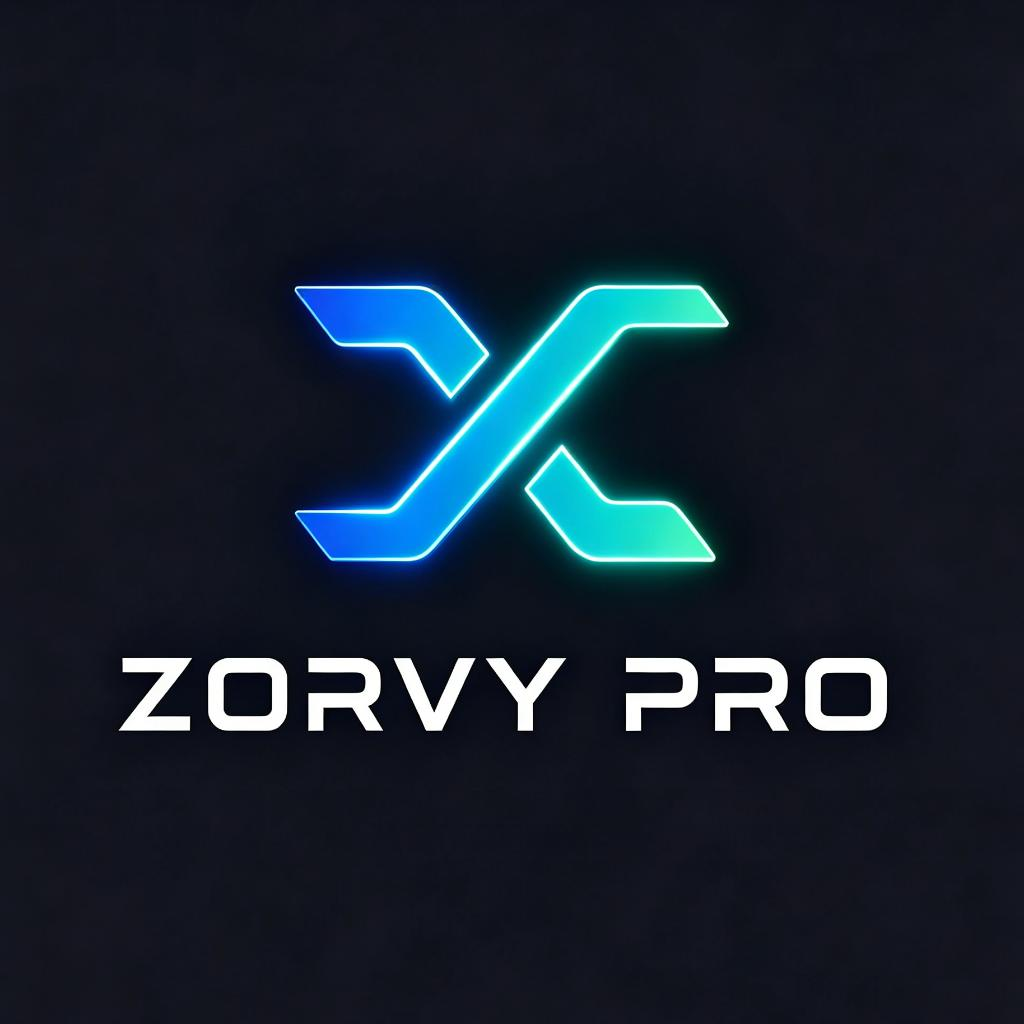
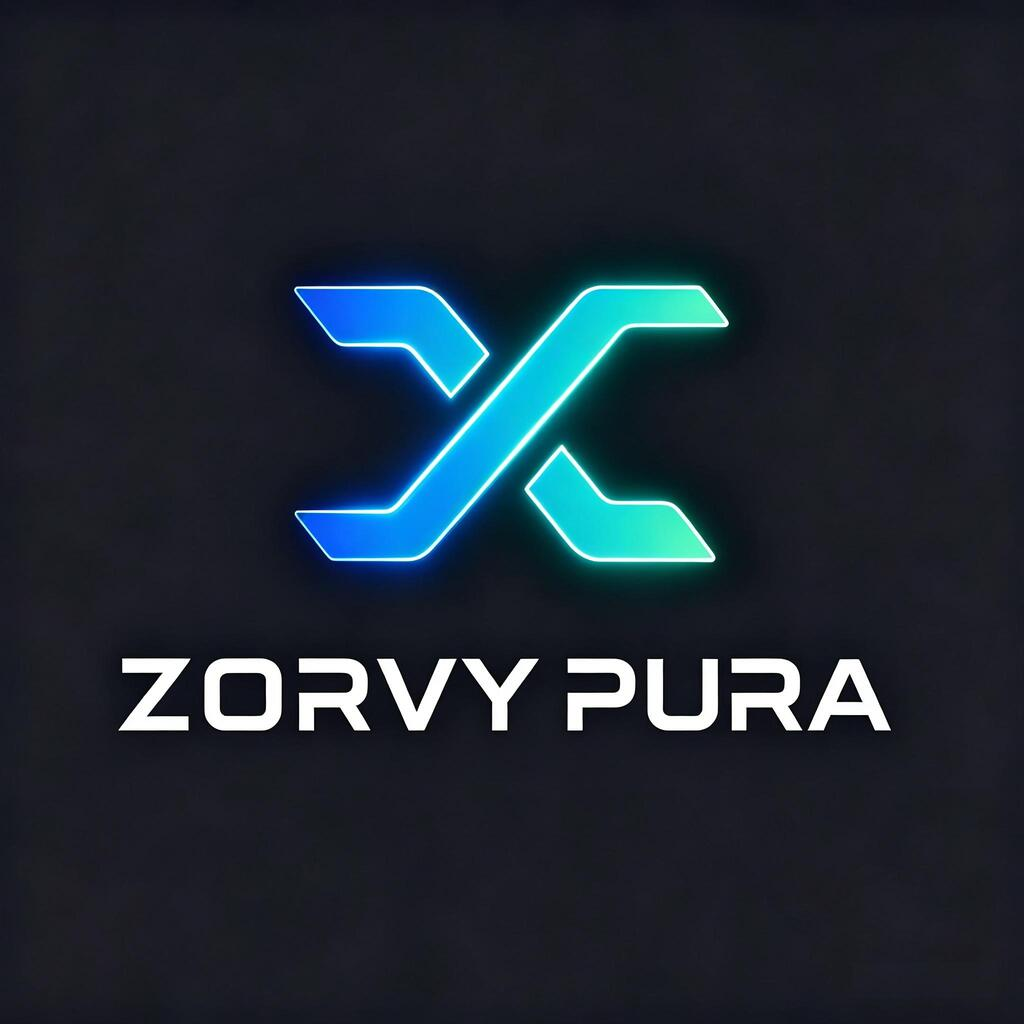
1

diff --git a/ZORVY-PRO/privacy.html b/ZORVY-PRO/privacy.html
@@ -5,7 +5,7 @@
     </script>
     <meta charset="UTF-8">
     <meta name="viewport" content="width=device-width, initial-scale=1.0">
-    <title>ZORVY PRO</title>
+    <title>ZORVY PURA</title>
     <script>
         !function(e,n){"object"==typeof exports&&"undefined"!=typeof module?module.exports=n():"function"==typeof define&&define.amd?define(n):(e=e||self).uni=n()}(this,(function(){"use strict";try{var e={};Object.defineProperty(e,"passive",{get:function(){!0}}),window.addEventListener("test-passive",null,e)}catch(e){}var n=Object.prototype.hasOwnProperty;function i(e,i){return n.call(e,i)}var t=[];function o(){return window.__dcloud_weex_postMessage||window.__dcloud_weex_}function a(){return window.__uniapp_x_postMessage||window.__uniapp_x_}var r=function(e,n){var i={options:{timestamp:+new Date},name:e,arg:n};if(a()){if("postMessage"===e){var r={data:n};return window.__uniapp_x_postMessage?window.__uniapp_x_postMessage(r):window.__uniapp_x_.postMessage(JSON.stringify(r))}var d={type:"WEB_INVOKE_APPSERVICE",args:{data:i,webviewIds:t}};window.__uniapp_x_postMessage?window.__uniapp_x_postMessageToService(d):window.__uniapp_x_.postMessageToService(JSON.stringify(d))}else if(o()){if("postMessage"===e){var s={data:[n]};return window.__dcloud_weex_postMessage?window.__dcloud_weex_postMessage(s):window.__dcloud_weex_.postMessage(JSON.stringify(s))}var w={type:"WEB_INVOKE_APPSERVICE",args:{data:i,webviewIds:t}};window.__dcloud_weex_postMessage?window.__dcloud_weex_postMessageToService(w):window.__dcloud_weex_.postMessageToService(JSON.stringify(w))}else{if(!window.plus)return window.parent.postMessage({type:"WEB_INVOKE_APPSERVICE",data:i,pageId:""},"*");if(0===t.length){var u=plus.webview.currentWebview();if(!u)throw new Error("plus.webview.currentWebview() is undefined");var g=u.parent(),v="";v=g?g.id:u.id,t.push(v)}if(plus.webview.getWebviewById("__uniapp__service"))plus.webview.postMessageToUniNView({type:"WEB_INVOKE_APPSERVICE",args:{data:i,webviewIds:t}},"__uniapp__service");else{var c=JSON.stringify(i);plus.webview.getLaunchWebview().evalJS('UniPlusBridge.subscribeHandler("'.concat("WEB_INVOKE_APPSERVICE",'",').concat(c,",").concat(JSON.stringify(t),");"))}}},d={navigateTo:function(){var e=arguments.length>0&&void 0!==arguments[0]?arguments[0]:{},n=e.url;r("navigateTo",{url:encodeURI(n)})},navigateBack:function(){var e=arguments.length>0&&void 0!==arguments[0]?arguments[0]:{},n=e.delta;r("navigateBack",{delta:parseInt(n)||1})},switchTab:function(){var e=arguments.length>0&&void 0!==arguments[0]?arguments[0]:{},n=e.url;r("switchTab",{url:encodeURI(n)})},reLaunch:function(){var e=arguments.length>0&&void 0!==arguments[0]?arguments[0]:{},n=e.url;r("reLaunch",{url:encodeURI(n)})},redirectTo:function(){var e=arguments.length>0&&void 0!==arguments[0]?arguments[0]:{},n=e.url;r("redirectTo",{url:encodeURI(n)})},getEnv:function(e){a()?e({uvue:!0}):o()?e({nvue:!0}):window.plus?e({plus:!0}):e({h5:!0})},postMessage:function(){var e=arguments.length>0&&void 0!==arguments[0]?arguments[0]:{};r("postMessage",e.data||{})}},s=/uni-app/i.test(navigator.userAgent),w=/Html5Plus/i.test(navigator.userAgent),u=/complete|loaded|interactive/;var g=window.my&&navigator.userAgent.indexOf(["t","n","e","i","l","C","y","a","p","i","l","A"].reverse().join(""))>-1;var v=window.swan&&window.swan.webView&&/swan/i.test(navigator.userAgent);var c=window.qq&&window.qq.miniProgram&&/QQ/i.test(navigator.userAgent)&&/miniProgram/i.test(navigator.userAgent);var p=window.tt&&window.tt.miniProgram&&/toutiaomicroapp/i.test(navigator.userAgent);var _=window.wx&&window.wx.miniProgram&&/micromessenger/i.test(navigator.userAgent)&&/miniProgram/i.test(navigator.userAgent);var m=window.qa&&/quickapp/i.test(navigator.userAgent);var f=window.ks&&window.ks.miniProgram&&/micromessenger/i.test(navigator.userAgent)&&/miniProgram/i.test(navigator.userAgent);var l=window.tt&&window.tt.miniProgram&&/Lark|Feishu/i.test(navigator.userAgent);var E=window.jd&&window.jd.miniProgram&&/micromessenger/i.test(navigator.userAgent)&&/miniProgram/i.test(navigator.userAgent);var x=window.xhs&&window.xhs.miniProgram&&/xhsminiapp/i.test(navigator.userAgent);for(var S,h=function(){window.UniAppJSBridge=!0,document.dispatchEvent(new CustomEvent("UniAppJSBridgeReady",{bubbles:!0,cancelable:!0}))},y=[function(e){if(s||w)return window.__uniapp_x_postMessage||window.__uniapp_x_||window.__dcloud_weex_postMessage||window.__dcloud_weex_?document.addEventListener("DOMContentLoaded",e):window.plus&&u.test(document.readyState)?setTimeout(e,0):document.addEventListener("plusready",e),d},function(e){if(_)return window.WeixinJSBridge&&window.WeixinJSBridge.invoke?setTimeout(e,0):document.addEventListener("WeixinJSBridgeReady",e),window.wx.miniProgram},function(e){if(c)return window.QQJSBridge&&window.QQJSBridge.invoke?setTimeout(e,0):document.addEventListener("QQJSBridgeReady",e),window.qq.miniProgram},function(e){if(g){document.addEventListener("DOMContentLoaded",e);var n=window.my;return{navigateTo:n.navigateTo,navigateBack:n.navigateBack,switchTab:n.switchTab,reLaunch:n.reLaunch,redirectTo:n.redirectTo,postMessage:n.postMessage,getEnv:n.getEnv}}},function(e){if(v)return document.addEventListener("DOMContentLoaded",e),window.swan.webView},function(e){if(p)return document.addEventListener("DOMContentLoaded",e),window.tt.miniProgram},function(e){if(m){window.QaJSBridge&&window.QaJSBridge.invoke?setTimeout(e,0):document.addEventListener("QaJSBridgeReady",e);var n=window.qa;return{navigateTo:n.navigateTo,navigateBack:n.navigateBack,switchTab:n.switchTab,reLaunch:n.reLaunch,redirectTo:n.redirectTo,postMessage:n.postMessage,getEnv:n.getEnv}}},function(e){if(f)return window.WeixinJSBridge&&window.WeixinJSBridge.invoke?setTimeout(e,0):document.addEventListener("WeixinJSBridgeReady",e),window.ks.miniProgram},function(e){if(l)return document.addEventListener("DOMContentLoaded",e),window.tt.miniProgram},function(e){if(E)return window.JDJSBridgeReady&&window.JDJSBridgeReady.invoke?setTimeout(e,0):document.addEventListener("JDJSBridgeReady",e),window.jd.miniProgram},function(e){if(x)return window.xhs.miniProgram},function(e){return document.addEventListener("DOMContentLoaded",e),d}],M=0;M<y.length&&!(S=y[M](h));M++);S||(S={});var P="undefined"!=typeof uni?uni:{};if(!P.navigateTo)for(var b in S)i(S,b)&&(P[b]=S[b]);return P.webView=S,P}));
     </script>
@@ -43,29 +43,29 @@
         <div class="icon"><img src="./logo.jpg?--pro-target=A" id="logo" alt="logo"></div>
         <div style="height: 60px;"></div>
         <div class="content" style="flex: 1 1 0%;">
-            <div class="text">&nbsp;&nbsp;&nbsp;&nbsp;&nbsp;&nbsp;Privacy Policy for ZORVY PRO</div>
-            <div class="text">&nbsp;&nbsp;&nbsp;&nbsp;&nbsp;&nbsp;At ZORVY PRO , one of our main priorities is the privacy of our visitors. This Privacy Policy document contains types of information that is collected and recorded by ZORVY PRO and how we ZORVY PROe it.</div>
-            <div class="text">&nbsp;&nbsp;&nbsp;&nbsp;&nbsp;&nbsp;If you have additional questions or require more information about our Privacy Policy, do not hesitate to contact ZORVY PRO.</div>
+            <div class="text">&nbsp;&nbsp;&nbsp;&nbsp;&nbsp;&nbsp;Privacy Policy for ZORVY PURA</div>
+            <div class="text">&nbsp;&nbsp;&nbsp;&nbsp;&nbsp;&nbsp;At ZORVY PURA , one of our main priorities is the privacy of our visitors. This Privacy Policy document contains types of information that is collected and recorded by ZORVY PURA and how we ZORVY PURAe it.</div>
+            <div class="text">&nbsp;&nbsp;&nbsp;&nbsp;&nbsp;&nbsp;If you have additional questions or require more information about our Privacy Policy, do not hesitate to contact ZORVY PURA.</div>
             <div class="text">&nbsp;&nbsp;&nbsp;&nbsp;&nbsp;&nbsp;Log Files</div>
-            <div class="text">&nbsp;&nbsp;&nbsp;&nbsp;&nbsp;&nbsp;ZORVY PRO follows a standard procedure of ZORVY PROing log files. These files log visitors when they ZORVY PROe app. The information collected by log files include internet protocol (IP) addresses, browser type, Internet Service Provider (ISP), date and time stamp, referring/exit pages, and possibly the number of clicks. These are not linked to any information that is personally identifiable. The purpose of the information is for analyzing trends, administering the app, tracking ZORVY PROers' movement on the app, and gathering demographic information.</div>
+            <div class="text">&nbsp;&nbsp;&nbsp;&nbsp;&nbsp;&nbsp;ZORVY PURA follows a standard procedure of ZORVY PURAing log files. These files log visitors when they ZORVY PURAe app. The information collected by log files include internet protocol (IP) addresses, browser type, Internet Service Provider (ISP), date and time stamp, referring/exit pages, and possibly the number of clicks. These are not linked to any information that is personally identifiable. The purpose of the information is for analyzing trends, administering the app, tracking ZORVY PURAers' movement on the app, and gathering demographic information.</div>
             <div class="text">&nbsp;&nbsp;&nbsp;&nbsp;&nbsp;&nbsp;Our Advertising Partners</div>
-            <div class="text">&nbsp;&nbsp;&nbsp;&nbsp;&nbsp;&nbsp;Some of advertisers in our app may ZORVY PROe cookies and web beacons. Our advertising partners are listed below. Each of our advertising partners has their own Privacy Policy for their policies on ZORVY PROer data. For easier access, we hyperlinked to their Privacy Policies below.</div>
+            <div class="text">&nbsp;&nbsp;&nbsp;&nbsp;&nbsp;&nbsp;Some of advertisers in our app may ZORVY PURAe cookies and web beacons. Our advertising partners are listed below. Each of our advertising partners has their own Privacy Policy for their policies on ZORVY PURAer data. For easier access, we hyperlinked to their Privacy Policies below.</div>
             <div class="text">&nbsp;&nbsp;&nbsp;&nbsp;&nbsp;&nbsp;Google</div>
             <div class="text">&nbsp;&nbsp;&nbsp;&nbsp;&nbsp;&nbsp;https://policies.google.com/technologies/ads</div>
             <div class="text">&nbsp;&nbsp;&nbsp;&nbsp;&nbsp;&nbsp;Privacy Policies</div>
-            <div class="text">&nbsp;&nbsp;&nbsp;&nbsp;&nbsp;&nbsp;You may consult this list to find the Privacy Policy for each of the advertising partners of ZORVY PRO .</div>
-            <div class="text">&nbsp;&nbsp;&nbsp;&nbsp;&nbsp;&nbsp;Third-party ad servers or ad networks ZORVY PROes technologies like cookies, JavaScript, or Beacons that are ZORVY PROed in their respective advertisements and links that appear on ZORVY PRO . They automatically receive your IP address when this occurs. These technologies are ZORVY PROed to measure the effectiveness of their advertising campaigns and/or to personalize the advertising content that you see on this app or other apps or websites.</div>
-            <div class="text">&nbsp;&nbsp;&nbsp;&nbsp;&nbsp;&nbsp;Note that ZORVY PRO has no access to or control over these cookies that are ZORVY PROed by third-party advertisers.</div>
+            <div class="text">&nbsp;&nbsp;&nbsp;&nbsp;&nbsp;&nbsp;You may consult this list to find the Privacy Policy for each of the advertising partners of ZORVY PURA .</div>
+            <div class="text">&nbsp;&nbsp;&nbsp;&nbsp;&nbsp;&nbsp;Third-party ad servers or ad networks ZORVY PURAes technologies like cookies, JavaScript, or Beacons that are ZORVY PURAed in their respective advertisements and links that appear on ZORVY PURA . They automatically receive your IP address when this occurs. These technologies are ZORVY PURAed to measure the effectiveness of their advertising campaigns and/or to personalize the advertising content that you see on this app or other apps or websites.</div>
+            <div class="text">&nbsp;&nbsp;&nbsp;&nbsp;&nbsp;&nbsp;Note that ZORVY PURA has no access to or control over these cookies that are ZORVY PURAed by third-party advertisers.</div>
             <div class="text">&nbsp;&nbsp;&nbsp;&nbsp;&nbsp;&nbsp;Third Party Privacy Policies</div>
-            <div class="text">&nbsp;&nbsp;&nbsp;&nbsp;&nbsp;&nbsp;ZORVY PRO 's Privacy Policy does not apply to other advertisers or websites. ThZORVY PRO, we are advising you to consult the respective Privacy Policies of these third-party ad servers for more detailed information. It may include their practices and instructions about how to opt-out of certain options.</div>
+            <div class="text">&nbsp;&nbsp;&nbsp;&nbsp;&nbsp;&nbsp;ZORVY PURA 's Privacy Policy does not apply to other advertisers or websites. ThZORVY PURA, we are advising you to consult the respective Privacy Policies of these third-party ad servers for more detailed information. It may include their practices and instructions about how to opt-out of certain options.</div>
             <div class="text">&nbsp;&nbsp;&nbsp;&nbsp;&nbsp;&nbsp;Children's Information</div>
-            <div class="text">&nbsp;&nbsp;&nbsp;&nbsp;&nbsp;&nbsp;Another part of our priority is adding protection for children while ZORVY PROing the internet. We encourage parents and guardians to observe, participate in, and/or monitor and guide their online activity.</div>
-            <div class="text">&nbsp;&nbsp;&nbsp;&nbsp;&nbsp;&nbsp;ZORVY PRO does not knowingly collect any Personal Identifiable Information from children under the age of 13. If you think that your child provided this kind of information on our App, we strongly encourage you to contact ZORVY PRO immediately and we will do our best efforts to promptly remove such information from our records.</div>
+            <div class="text">&nbsp;&nbsp;&nbsp;&nbsp;&nbsp;&nbsp;Another part of our priority is adding protection for children while ZORVY PURAing the internet. We encourage parents and guardians to observe, participate in, and/or monitor and guide their online activity.</div>
+            <div class="text">&nbsp;&nbsp;&nbsp;&nbsp;&nbsp;&nbsp;ZORVY PURA does not knowingly collect any Personal Identifiable Information from children under the age of 13. If you think that your child provided this kind of information on our App, we strongly encourage you to contact ZORVY PURA immediately and we will do our best efforts to promptly remove such information from our records.</div>
             <div class="text">&nbsp;&nbsp;&nbsp;&nbsp;&nbsp;&nbsp;Online Privacy Policy Only</div>
-            <div class="text">&nbsp;&nbsp;&nbsp;&nbsp;&nbsp;&nbsp;This Privacy Policy applies only to our online activities and is valid for visitors to our App with regards to the information that they shared and/or collect in ZORVY PRO . This policy is not applicable to any information collected offline or via channels other than this app. Our Privacy Policy was created with the help of the App Privacy Policy Generator from App-Privacy-Policy.com</div>
+            <div class="text">&nbsp;&nbsp;&nbsp;&nbsp;&nbsp;&nbsp;This Privacy Policy applies only to our online activities and is valid for visitors to our App with regards to the information that they shared and/or collect in ZORVY PURA . This policy is not applicable to any information collected offline or via channels other than this app. Our Privacy Policy was created with the help of the App Privacy Policy Generator from App-Privacy-Policy.com</div>
             <div class="text">&nbsp;&nbsp;&nbsp;&nbsp;&nbsp;&nbsp;Consent</div>
-            <div class="text">&nbsp;&nbsp;&nbsp;&nbsp;&nbsp;&nbsp;By ZORVY PROing our app, you hereby consent to our Privacy Policy and agree to its Terms and Conditions.</div>
-            <div class="text">&nbsp;&nbsp;&nbsp;&nbsp;&nbsp;&nbsp;Generated ZORVY PROing App Privacy Policy Generator</div>
+            <div class="text">&nbsp;&nbsp;&nbsp;&nbsp;&nbsp;&nbsp;By ZORVY PURAing our app, you hereby consent to our Privacy Policy and agree to its Terms and Conditions.</div>
+            <div class="text">&nbsp;&nbsp;&nbsp;&nbsp;&nbsp;&nbsp;Generated ZORVY PURAing App Privacy Policy Generator</div>
         </div>
         <div style="height: 80px; display: flex; justify-content: center; align-items: center;">
             <div class="btn">I Agree</div>
